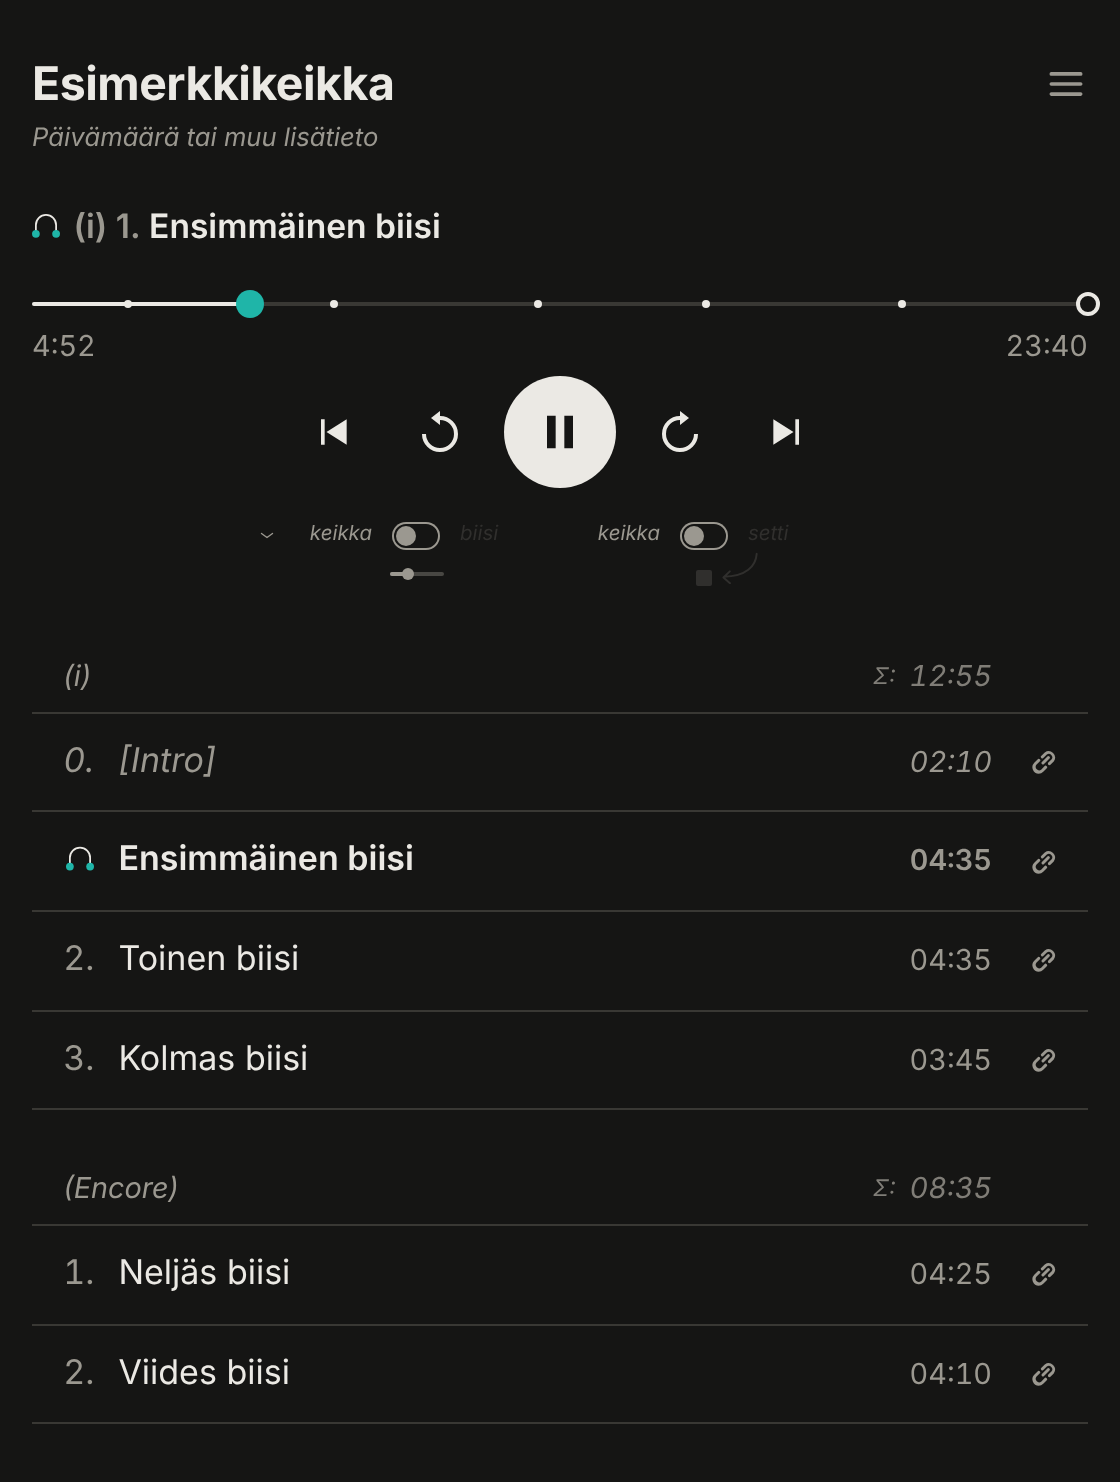
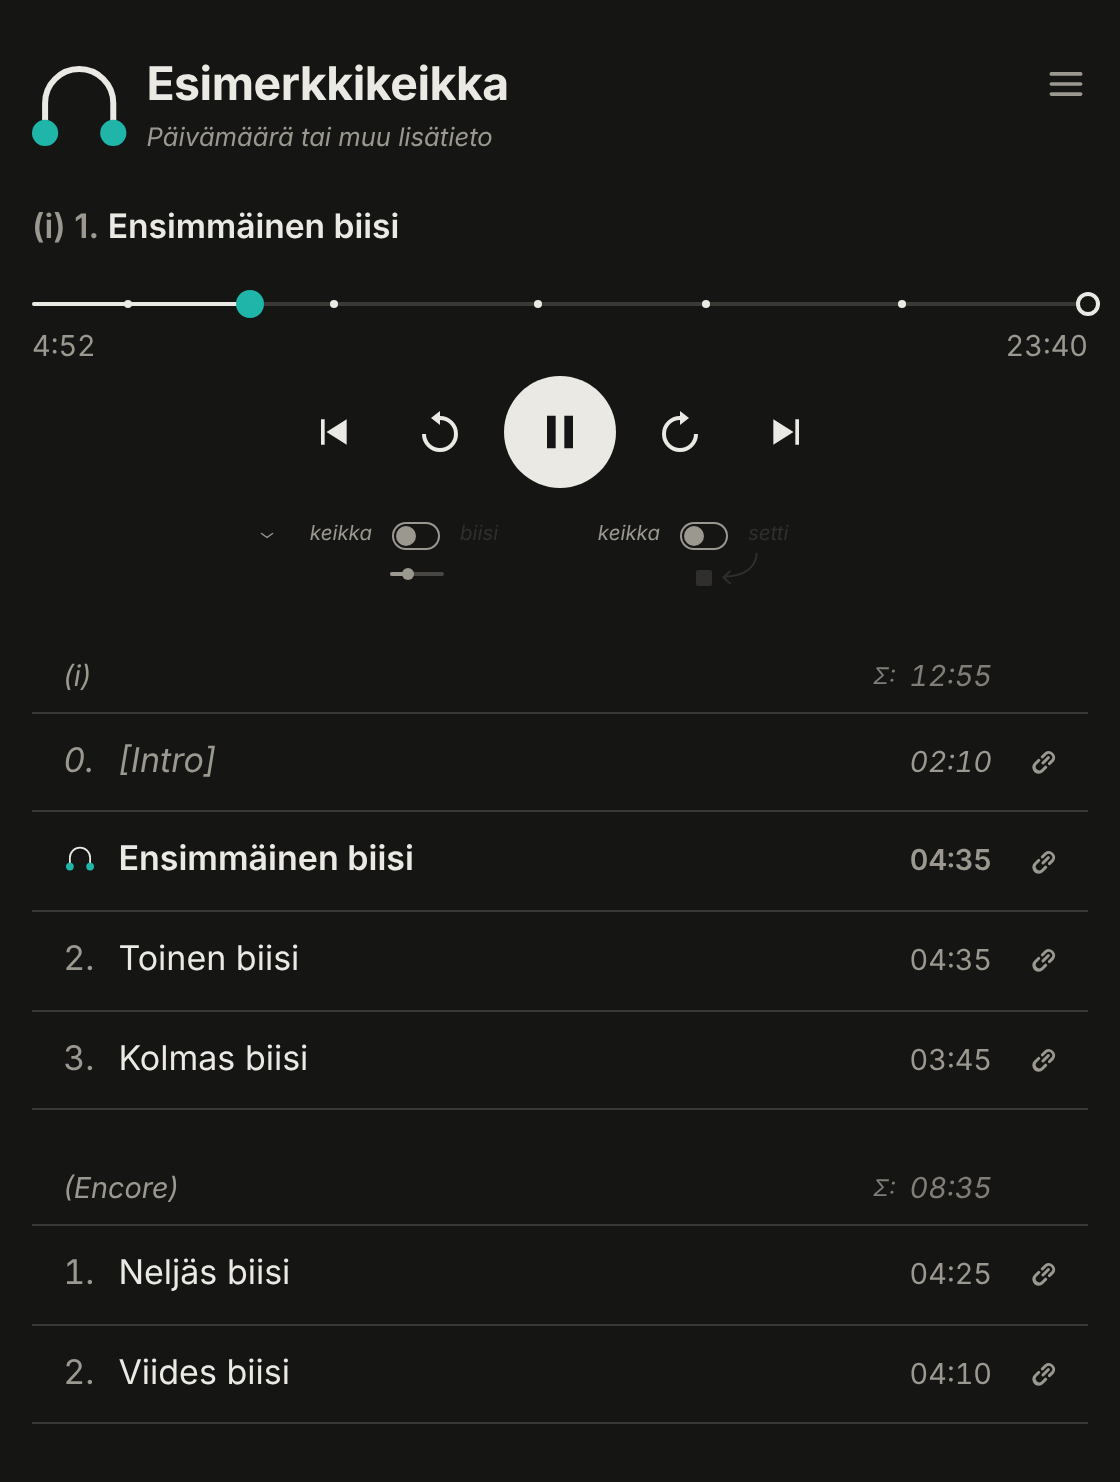
keick·walk.: kuulokelogo vasempaan yläkulmaan otsikon ja lisätiedon korkuisena
Kuulokkeet (40 px) ovat otsikon vasemmalla puolella, ja otsikon ja lisätiedon
rivit sisennetään. Jos ensimmäinen sana ei mahdu kuulokkeiden ja yläkulman
nappien väliin, kuulokkeet siirtyvät otsikon ensimmäisen tekstirivin kohdalle.
Nyt soi -rivin kuulokkeet poistettu. Oppaan kuvat ja teksti päivitetty.

Claude-Session: https://claude.ai/code/session_01X74yKiKRRQ4nGJJmDMYVXD

Changed region(s): [[0.0312, 0.031, 0.4688, 0.1862]]

diff --git a/soitin/index.html b/soitin/index.html
@@ -109,9 +109,6 @@
     overflow-wrap: anywhere;
   }
   .now .nr { color: var(--muted); }
-  /* Kuulokelogo nyt soi -rivin alussa (käyttäjän päätös 20.10.2026); tyynyt perusviivalla. */
-  .now .kuul-nyt { display: inline-block; width: 14px; height: 11.86px; margin-right: 0.4em; overflow: visible; fill: currentColor; }
-  .now .kuul-nyt .t { fill: var(--accent); }
   /* Ei-biisi (esim. [Intro]): myös otsikko himmeänä ja koko rivi kursiivina. */
   .now.pre { color: var(--muted); font-style: italic; }
   .seek {
@@ -483,8 +480,15 @@
   /* Otsikolle varataan yläkulman nappien tila (verkossa ☰, sovelluksessa silta.js:n kolme nappia)
      vain ensimmäisellä rivillä kelluvalla .brand-space-laatikolla, joten pitkä nimi jatkuu nappien
      alla täysleveänä; tämä korvaa otsikon oikean reunuksen (myös silta.js:n main>h1 136px).
-     Kuulokelogo oli tässä 20.10.2026 asti; nyt se on nyt soi -rivin alussa (.kuul-nyt). */
+     Kuulokelogo oli tässä 20.10.2026 asti; nyt se on vasemmassa yläkulmassa (.brand). */
   .brand-space { float: right; width: 45px; height: 29px; }
+  /* keick·walk.-logon kuulokkeet vasemmassa yläkulmassa otsikon ja lisätiedon yhteiskorkuisina
+     (käyttäjän päätös 20.10.2026): yläreuna otsikon versaalin yläreunassa (h1:n yläreuna + 5 px),
+     tyynyt lisätiedon perusviivalla, kun otsikko on yksirivinen (40 px; mitattu Chromiumissa).
+     Otsikon ja lisätiedon kaikki rivit sisennetään kuulokkeiden leveyden ja 10 px:n verran. */
+  .brand { position: absolute; left: 16px; top: 33px; width: 47.2px; height: 40px; overflow: visible; }
+  .brand .t { fill: var(--accent); }
+  main > h1, main > .sub { padding-left: 57.2px; }
   main.app .brand-space { width: 141px; }
   main.omat > h1, main.app > h1 { padding-right: 0; }
   #omat {
@@ -520,6 +524,7 @@
 </head>
 <body>
 <main>
+  <svg class="brand" viewBox="0 4 18.88 16" role="img" aria-label="keick·walk."><path d="M2.62 17.38V11.42A6.82 6.82 0 0 1 16.26 11.42V17.38" fill="none" stroke="currentColor" stroke-width="1.2"/><circle class="t" cx="2.62" cy="17.38" r="2.62"/><circle class="t" cx="16.26" cy="17.38" r="2.62"/></svg>
   <div class="brand-space" aria-hidden="true"></div>
   <h1 id="title">keick·walk.</h1>
   <p class="sub" id="sub" hidden></p>
@@ -689,7 +694,6 @@
     var n = document.createTextNode(num(i) + ".");
     els.now.textContent = "";
     els.now.classList.toggle("pre", isExtra(i));
-    els.now.appendChild(kuulNyt);
     els.now.appendChild(nr);
     if (tr.untitled) {
       els.now.appendChild(n);
@@ -870,7 +874,7 @@
   // ---- Tila -------------------------------------------------------------
 
   var current = -1;        // korostettu kappale
-  // keick·walk.-logon kuulokkeet: soivan kappaleen merkki listassa ja nyt soi -rivillä.
+  // keick·walk.-logon kuulokkeet: soivan kappaleen merkki listassa.
   function kuulokkeet(cls) {
     var w = document.createElement("span");
     w.innerHTML = '<svg class="' + cls + '" viewBox="0 4 18.88 16" aria-hidden="true">'
@@ -878,7 +882,7 @@
       + '<circle class="t" cx="2.62" cy="17.38" r="2.62"/><circle class="t" cx="16.26" cy="17.38" r="2.62"/></svg>';
     return w.firstChild;
   }
-  var kuul = kuulokkeet("kuul"), kuulNyt = kuulokkeet("kuul-nyt");
+  var kuul = kuulokkeet("kuul");
   // Kuulokkeet soivan rivin piilotetun numeron paikalle, oikeaan reunaan kuten numerot.
   function markCurrent(tr) {
     var n = tr.querySelector(".n");
@@ -1647,6 +1651,14 @@
   function fitTitle() {
     els.title.classList.remove("pitka");
     if (els.title.scrollWidth > els.title.clientWidth + 1) els.title.classList.add("pitka");
+    // Jos ensimmäinen sana ei mahdu kuulokkeiden ja yläkulman nappien väliin, otsikko alkaa vasta
+    // toiselta riviltä; kuulokkeet siirtyvät silloin otsikon ensimmäisen tekstirivin kohdalle.
+    var r = document.createRange();
+    r.selectNodeContents(els.title);
+    var first = r.getClientRects()[0];
+    var dy = first ? first.top - els.title.getBoundingClientRect().top : 0;
+    // (h1.pitka ja clear siirtävät koko otsikon alemmas; offsetTop on mainin sisällä, 5 px = versaalin yläreuna)
+    document.querySelector(".brand").style.top = els.title.offsetTop + 5 + dy + "px";
   }
   window.addEventListener("resize", fitTitle);
 

diff --git a/soitin/ohje.html b/soitin/ohje.html
@@ -470,7 +470,7 @@
   <picture>
     <source srcset="ohje-soitin-tumma.png" media="(prefers-color-scheme: dark)">
     <img src="ohje-soitin.png" width="1120" height="1482"
-      alt="keick·walk.: otsikko ja lisätieto, oikeassa yläkulmassa Omat keikkani -nappi, nyt soi -rivi, aikajana, viisi nappia, kaksi kytkintä ja kappalelista seteittäin.">
+      alt="keick·walk.: vasemmassa yläkulmassa kuulokkeet, niiden vieressä otsikko ja lisätieto, oikeassa yläkulmassa Omat keikkani -nappi, nyt soi -rivi, aikajana, viisi nappia, kaksi kytkintä ja kappalelista seteittäin.">
   </picture>
   <figcaption><a href="#merkinnat">Kahden setin esimerkki</a> keick·walk.-sivulla. Ensimmäinen biisi soi.</figcaption>
 </figure>
@@ -483,7 +483,7 @@
     <td>Lista keikoista, jotka on avattu tässä selaimessa; avattu keikka tulee listaan itsestään.
       Napauta keikkaa tai kirjoita tunnus. Soitto jatkuu, kun lista on auki. Lista on vain tämän
       selaimen muistissa, eikä sitä lähetetä minnekään.</td></tr>
-  <tr><td>Nyt soi -rivi</td><td>Kuulokkeiden perässä soivan kappaleen numero ja nimi. Useamman setin keikassa edessä on
+  <tr><td>Nyt soi -rivi</td><td>Soivan kappaleen numero ja nimi. Useamman setin keikassa edessä on
     setti, esim. <i>(ii) 3.</i></td></tr>
   <tr><td>Aikajana</td><td>Napauta tai vedä kohtaan. Pienet pisteet ovat kappaleiden rajoja (keikka-janalla).
     Alla vasemmalla soittokohta, oikealla janan pituus.</td></tr>

diff --git a/CLAUDE.md b/CLAUDE.md
@@ -324,8 +324,12 @@ tunnuskentän yläpuolella on vakiofonttinen kursiivi *Valkkaa keikka!*; alalaid
 (`index.html`); käyttäjän päätös 19.10.2026. Korostusväri on kaikilla soittimen sivuilla Okinawa-turkoosi `#0a7f76` / tummassa
 `#1fb5a8` (Sports Walkmanin runko). Napin, iframen ja listan `<title>`-elementin nimi on edelleen
 *Omat keikkani*.
-Soitinsivulla logosta on vain kuulokkeet (14 px, `.kuul-nyt`) nyt soi -rivin alussa (käyttäjän päätös
-20.10.2026; ennen ☰-napin vieressä). Otsikolta varataan yläkulman nappien tila (45 px, sovelluksessa
+Soitinsivulla logosta on vain kuulokkeet (`.brand`) vasemmassa yläkulmassa otsikon ja lisätiedon
+yhteiskorkuisina (40 px: yläreuna otsikon versaalin yläreunassa, tyynyt yksirivisen otsikon lisätiedon
+perusviivalla; mitattu Chromiumissa), ja otsikon ja lisätiedon kaikki rivit sisennetään 57,2 px
+(käyttäjän päätös 20.10.2026, versio 2b). Jos ensimmäinen sana ei mahdu kuulokkeiden ja nappien väliin
+(etenkin sovelluksessa) tai otsikko on `.pitka`, otsikko alkaa toiselta riviltä, ja `fitTitle()` siirtää
+kuulokkeet sen ensimmäisen tekstirivin kohdalle. Otsikolta varataan yläkulman nappien tila (45 px, sovelluksessa
 141 px) kelluvalla `.brand-space`-laatikolla vain ensimmäiseltä riviltä, ja se korvaa otsikon oikean
 reunuksen (myös silta.js:n `main>h1{padding-right:136px}`). Otsikon rivitys on tavallinen, koska `anywhere` ja
 `break-word` katkaisevat sanan kesken kelluvan laatikon vieressä (mitattu Chromiumissa); koko
